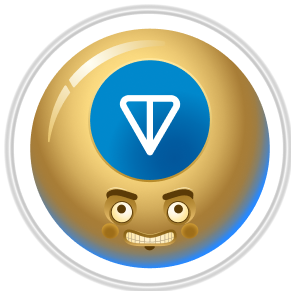
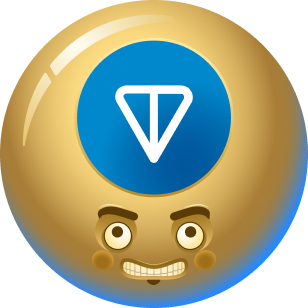
Arrow added

diff --git a/src/game/scenes/Boot.js b/src/game/scenes/Boot.js
@@ -1,9 +1,11 @@
 import { Scene } from 'phaser';
 
-let bubble;
+let bubble, halo, pointer;
 let frameSpeed = 200;
 let joyStickX, joyStickY;
 let deltaX, deltaY;
+let radius = 110;
+let newX, newY;
 
 export class Boot extends Scene {
     constructor() {
@@ -21,6 +23,15 @@ export class Boot extends Scene {
         return elapsed / 1000;
     }
 
+    calculateAngleInRadians(x1, y1, x2, y2) {
+        const dx = x2 - x1;
+        const dy = y2 - y1;
+
+        const angleInRadians = Math.atan2(dy, dx);
+
+        return angleInRadians;
+    }
+
     preload() {
         let url = 'https://raw.githubusercontent.com/rexrainbow/phaser3-rex-notes/master/dist/rexvirtualjoystickplugin.min.js';
         this.load.plugin('rexvirtualjoystickplugin', url, true);
@@ -29,14 +40,22 @@ export class Boot extends Scene {
         this.load.image('bubble', 'assets/bubble.png');
         this.load.image('food', 'assets/food.png');
         this.load.image('background', 'assets/tile.png');
+        this.load.image('halo', 'assets/halo.png');
+        this.load.image('pointer', 'assets/pointer.png');
     }
 
     create() {
         this.start = this.getTime();
         const background = this.add.tileSprite(0, 0, 5800, 10000, 'background').setOrigin(0, 0);
         background.setScale(0.3, 0.3)
-        bubble = this.add.image(window.innerWidth / 2, window.innerHeight / 2, 'bubble');
+        bubble = this.add.image(window.innerWidth / 2 + 2, window.innerHeight / 2 + 2, 'bubble');
         bubble.setScale(0.5, 0.5)
+        halo = this.add.image(window.innerWidth / 2, window.innerHeight / 2, 'halo');
+        halo.setScale(0.65, 0.65)
+        halo.setTint(0x00ff00)
+        pointer = this.add.image(window.innerWidth / 2, window.innerHeight / 2, 'pointer');
+        pointer.setScale(0.65, 0.65)
+        pointer.setTint(0x00ff00)
         let base = this.add.image(0, 0, 'base');
         let thumb = this.add.image(0, 0, 'thumb');
         base.displayHeight = window.innerWidth / 3;
@@ -53,7 +72,6 @@ export class Boot extends Scene {
             thumb: thumb,
         });
         this.joystickCursors = this.joyStick.createCursorKeys();
-        console.log(this.joyStick)
     }
 
     update() {
@@ -61,7 +79,8 @@ export class Boot extends Scene {
         if (this.joyStick.forceX != this.joyStick.pointerX) {
             deltaX = this.joyStick.forceX / 60;
             deltaY = -this.joyStick.forceY / 60;
-        } else {
+        }
+        else {
             deltaX = 0;
             deltaY = 0;
         }
@@ -78,9 +97,17 @@ export class Boot extends Scene {
             deltaY = -1
         }
         bubble.setPosition(bubble.x + (deltaX * deltaTime * frameSpeed), bubble.y - (deltaY * deltaTime * frameSpeed));
+        pointer.setAlpha(1)
+        let angle = this.calculateAngleInRadians(joyStickX, joyStickY, this.joyStick.thumb.x, this.joyStick.thumb.y)
+        halo.setPosition(halo.x + (deltaX * deltaTime * frameSpeed), halo.y - (deltaY * deltaTime * frameSpeed));
+        newX = bubble.x + radius * Math.cos(angle);
+        newY = bubble.y + radius * Math.sin(angle);
+        pointer.setPosition(newX, newY);
+        pointer.setAngle(angle * 180 / Math.PI)
+        if (angle / Math.PI == 0) {
+            pointer.setAlpha(0)
+        }
         this.cameras.main.centerOn(bubble.x, bubble.y);
-        // console.log('deltaX: ', this.joyStick.pointerX, 'deltaY: ', this.joyStick.forceX, 'deltaTime: ', deltaTime)
-        // console.log(this.joyStick)
     }
 }
 

diff --git a/src/App.jsx b/src/App.jsx
@@ -4,10 +4,7 @@ import Phaser from "phaser";
 import { PhaserGame } from "./game/PhaserGame";
 
 function App() {
-    // The sprite can only be moved in the MainMenu Scene
     const [canMoveSprite, setCanMoveSprite] = useState(true);
-
-    //  References to the PhaserGame component (game and scene are exposed)
     const phaserRef = useRef();
     const [spritePosition, setSpritePosition] = useState({ x: 0, y: 0 });
 
@@ -23,7 +20,6 @@ function App() {
         const scene = phaserRef.current.scene;
 
         if (scene && scene.scene.key === "MainMenu") {
-            // Get the update logo position
             scene.moveLogo(({ x, y }) => {
                 setSpritePosition({ x, y });
             });
@@ -34,16 +30,9 @@ function App() {
         const scene = phaserRef.current.scene;
 
         if (scene) {
-            // Add more stars
             const x = Phaser.Math.Between(64, scene.scale.width - 64);
             const y = Phaser.Math.Between(64, scene.scale.height - 64);
-
-            //  `add.sprite` is a Phaser GameObjectFactory method and it returns a Sprite Game Object instance
             const star = scene.add.sprite(x, y, "star");
-
-            //  ... which you can then act upon. Here we create a Phaser Tween to fade the star sprite in and out.
-            //  You could, of course, do this from within the Phaser Scene code, but this is just an example
-            //  showing that Phaser objects and systems can be acted upon from outside of Phaser itself.
             scene.add.tween({
                 targets: star,
                 duration: 500 + Math.random() * 1000,
@@ -54,7 +43,6 @@ function App() {
         }
     };
 
-    // Event emitted from the PhaserGame component
     const currentScene = (scene) => {
         setCanMoveSprite(scene.scene.key !== "MainMenu");
     };
@@ -62,31 +50,6 @@ function App() {
     return (
         <div id="app">
             <PhaserGame ref={phaserRef} currentActiveScene={currentScene} />
-            {/* <div>
-                <div>
-                    <button className="button" onClick={changeScene}>
-                        Change Scene
-                    </button>
-                </div>
-                <div>
-                    <button
-                        disabled={canMoveSprite}
-                        className="button"
-                        onClick={moveSprite}
-                    >
-                        Toggle Movement
-                    </button>
-                </div>
-                <div className="spritePosition">
-                    Sprite Position:
-                    <pre>{`{\n  x: ${spritePosition.x}\n  y: ${spritePosition.y}\n}`}</pre>
-                </div>
-                <div>
-                    <button className="button" onClick={addSprite}>
-                        Add New Sprite
-                    </button>
-                </div>
-            </div> */}
         </div>
     );
 }
